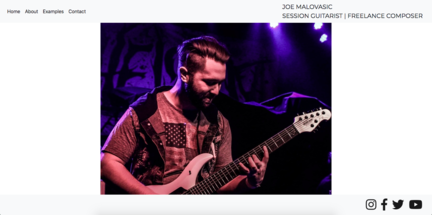
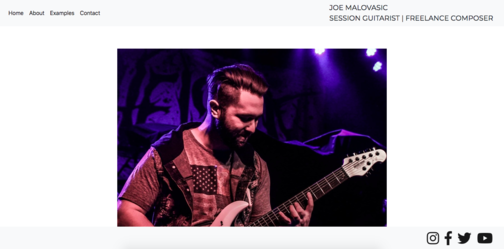
changed background image and other small adjustments

diff --git a/style.css b/style.css
@@ -1,6 +1,6 @@
 body
 {
-	background-image: url(./assets/html_coding_background.jpg);
+	background-image: url(./assets/shutterStock.jpg);
 	background-size: cover;
 }
 
